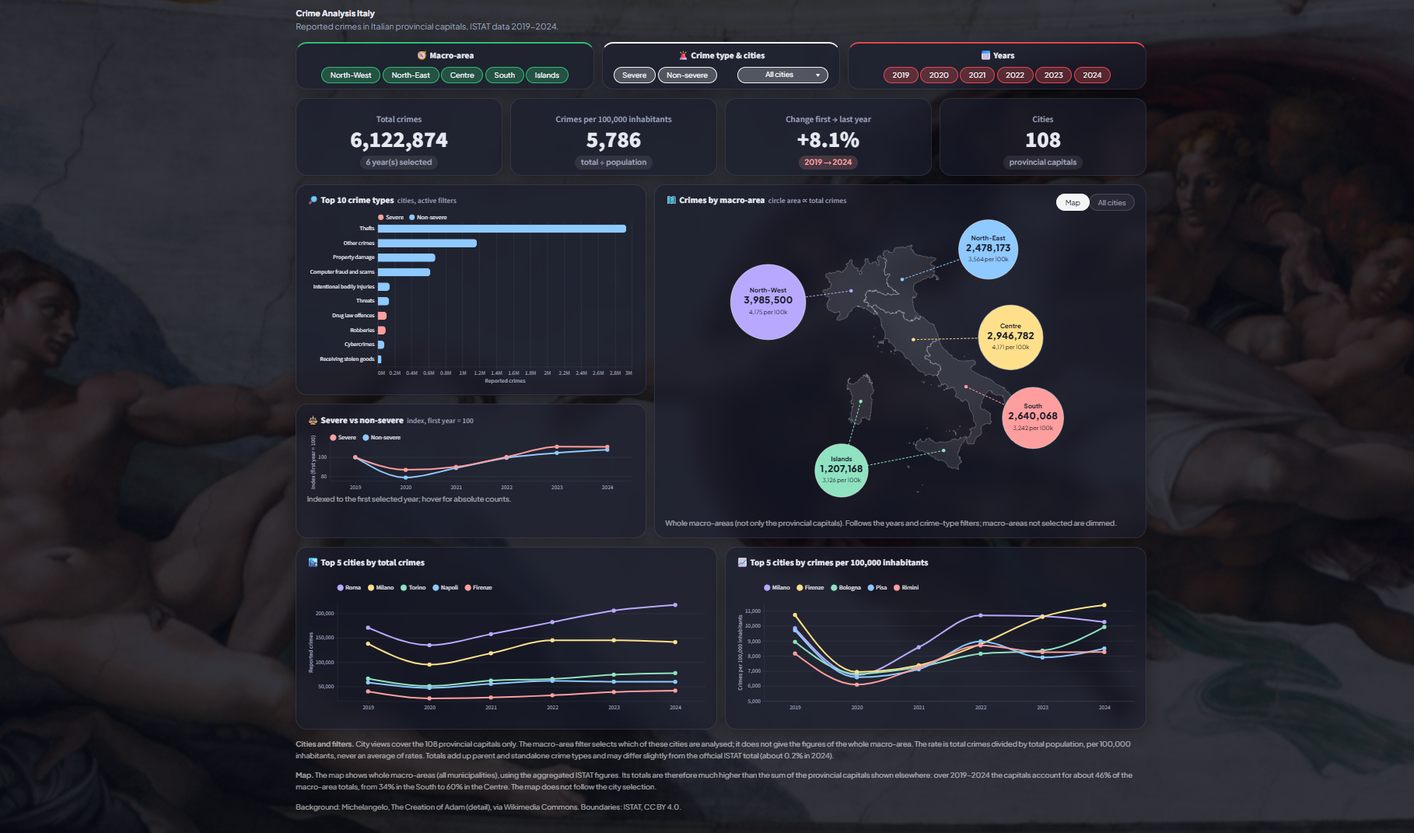
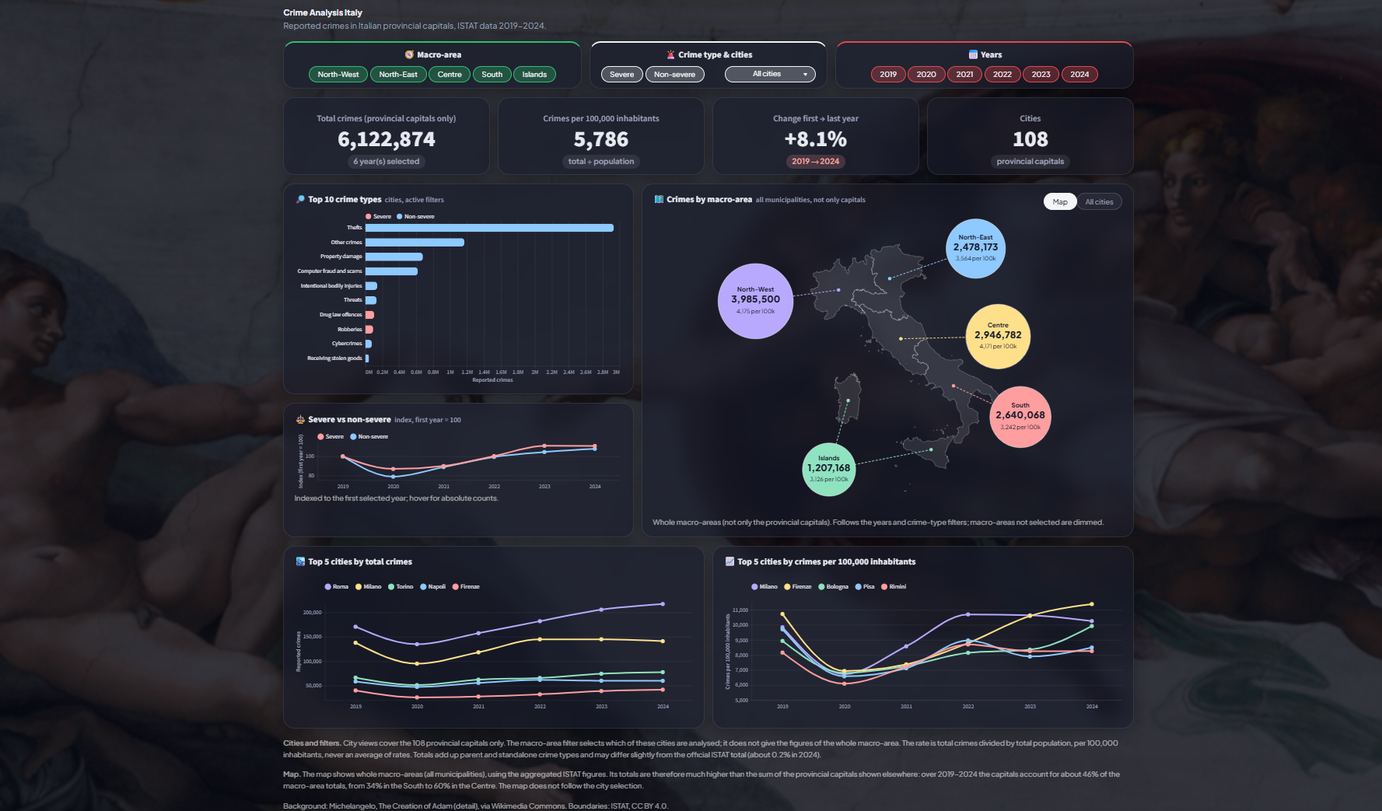
Label capitals-only figures and whole-area map, document loading script, tidy docs

diff --git a/app/streamlit_app.py b/app/streamlit_app.py
@@ -682,7 +682,11 @@ with st.container(key="row_kpi"):
     k1, k2, k3, k4 = st.columns(4)
     with k1:
         with st.container(key="kpi_total"):
-            kpi("Total crimes", f"{total_crimes:,.0f}", f"{len(year_sel)} year(s) selected")
+            kpi(
+                "Total crimes (provincial capitals only)",
+                f"{total_crimes:,.0f}",
+                f"{len(year_sel)} year(s) selected",
+            )
     with k2:
         with st.container(key="kpi_rate"):
             kpi("Crimes per 100,000 inhabitants", f"{overall_rate:,.0f}", "total ÷ population")
@@ -791,7 +795,7 @@ with st.container(key="row_main"):
                 if view == "All cities":
                     card_title("📋", "All cities", f"{len(totals)} provincial capitals, selected years")
                 else:
-                    card_title("🗺", "Crimes by macro-area", "circle area ∝ total crimes")
+                    card_title("🗺", "Crimes by macro-area", "all municipalities, not only capitals")
             if view == "All cities":
                 st.dataframe(
                     city_table,

diff --git a/IMPLEMENTATION_NOTES.md b/IMPLEMENTATION_NOTES.md
@@ -1,14 +1,5 @@
 # Implementation Notes — Technical Reference
 
-## Current Project Status
-
-- **Environment, ingestion, warehouse setup**: complete.
-- **dbt project**: complete. Staging, marts, seeds, macros and tests are built; the last full run passed all 54 tests.
-- **Streamlit app** (`app/streamlit_app.py`): complete and approved.
-- **Open**: repository cleanup and documentation, reproducible loading pipeline, GitHub, Streamlit Cloud deploy, LinkedIn post.
-
----
-
 ## Language Convention
 
 - Code, technical documentation, dbt objects (macros, seeds, models, column names, enum values) and app texts are in **English**.
@@ -23,13 +14,13 @@
 The ISTAT municipal population dataset only starts in 2019 (post-Census population bases), so the whole project is aligned to 2019 instead of mixing sources and methodologies. The period is controlled by the dbt vars `analysis_start_year` and `analysis_end_year` (defaults 2019 and 2024).
 
 ### ELT, not ETL
-Python scripts do ingestion only: CSV parsing and technical renaming, no year filter, no derived columns, no discarding of any `REF_AREA` value (including the 7 residual codes `IT108`, `IT109`, `IT110`, `ITC4A`, `ITC4B`, `ITDA`, `ITE1A`). All business logic (severity flag, territorial level, crime-code hierarchy, macro-area mapping, English crime names) lives in dbt, so it is tested and documented.
+Python scripts do ingestion only: CSV parsing, technical renaming and loading into the raw tables, with no year filter, no derived columns, no discarding of any `REF_AREA` value (including the 7 residual codes `IT108`, `IT109`, `IT110`, `ITC4A`, `ITC4B`, `ITDA`, `ITE1A`). All business logic (severity flag, territorial level, crime-code hierarchy, macro-area mapping, English crime names) lives in dbt, so it is tested and documented.
 
 ### Non-standard ISTAT CSV quoting
 The export from esploradati.istat.it uses `'` as quotechar and `"` as escape (e.g. "L'Aquila" becomes `'L"'Aquila'`). `pandas.read_csv` parses it with `quotechar="'"`, `escapechar='"'`, `doublequote=False`, `engine="python"`. To get the crime-type breakdown, "Tipo di delitto" must be set as a dimension in the TABLE view before exporting, otherwise only the `TOT` aggregate is returned.
 
 ### Territorial levels
-All levels are kept (municipality, province, region, macro-area, country). The municipality level in the crime dataset covers only the **108 provincial capitals**, not all ~7,900 Italian municipalities. In the app and the docs this level is called "cities" and the limitation is stated in a footnote.
+All levels are kept (municipality, province, region, macro-area, country). The municipality level in the crime dataset covers only the **108 provincial capitals**, not all ~7,900 Italian municipalities. In the app and the docs this level is called "cities" and the limitation is stated in labels and footnotes.
 
 ### TYPE_CRIME classification (56 codes), a dbt seed
 - Parent/child hierarchy verified on the ISTAT selection tree and numerically:
@@ -43,6 +34,7 @@ All levels are kept (municipality, province, region, macro-area, country). The m
 - `TOT` is a row-level aggregate across all crime types, not a crime type: `hierarchy_level = 'total'`, `is_severe_crime = false`, never summed with individual codes.
 - No separate mafia/terrorism flags: the dataset has only dedicated codes (MAFIAHOM/MAFIASS, TERRORHOM/ATTACK).
 - `OFFENCE` was discontinued from 2018 (absent at every level), so it falls outside the analysis window. The period has 55 codes with data; the seed keeps all 56.
+- English names (`crime_names_en` seed) were checked against the Italian ISTAT names.
 
 ---
 
@@ -62,12 +54,14 @@ All levels are kept (municipality, province, region, macro-area, country). The m
 ## Data Warehouse Setup
 
 ### Snowflake
-- Warehouse `COMPUTE_WH` (XSMALL, auto-suspend 60s), database `CRIME_ANALYSIS` with schemas `RAW_CRIME_DATA` and `ANALYTICS`, role `DBT_ROLE`, dedicated user `DBT_USER`. Never reuse a personal or `ACCOUNTADMIN` login for automated connections.
-- Raw tables were loaded manually via Snowsight: `RAW_CRIME_DATA.DELITTI_RAW` (133,826 rows) and `POPOLAZIONE_RAW` (64,369 rows). `ref_area` is VARCHAR in both, preserving leading zeros.
+- An XSMALL warehouse with a short auto-suspend, the database `CRIME_ANALYSIS` with schemas `RAW_CRIME_DATA` and `ANALYTICS`, and a dedicated role and user for dbt (`scripts/setup_snowflake.sql` creates these objects, with placeholders for the names). Never reuse a personal or administrator login for automated connections.
+- Raw tables: `RAW_CRIME_DATA.DELITTI_RAW` (133,826 rows) and `POPOLAZIONE_RAW` (64,369 rows), loaded from the cleaned CSVs by `scripts/03_load_to_snowflake.py`. `ref_area` is VARCHAR in both, preserving leading zeros.
   - `DELITTI_RAW`: `REF_AREA`, `TERRITORIO`, `TYPE_CRIME`, `TIPO_DI_DELITTO` (VARCHAR); `ANNO`, `NUMERO_DELITTI` (NUMBER).
   - `POPOLAZIONE_RAW`: `REF_AREA`, `TERRITORIO` (VARCHAR); `ANNO`, `POPOLAZIONE` (NUMBER).
-- `DBT_ROLE` has USAGE on the schema and SELECT on all current and future tables. Objects created by dbt are owned by `DBT_ROLE`; to query them from Snowsight as `ACCOUNTADMIN`, run `GRANT ROLE DBT_ROLE TO ROLE ACCOUNTADMIN`.
-- Account identifier format: if the organization-account format does not resolve (DNS on a newly created account can lag), use the legacy locator format `<locator>.<region>.<cloud>` in the dbt profile. Either works once resolvable.
+- The dbt role has USAGE on the schema and SELECT on all current and future tables. Objects created by dbt are owned by that role.
+
+### Loading script (`scripts/03_load_to_snowflake.py`)
+Ingestion only. It validates the two cleaned CSVs (existence and column names), uploads each to a temporary stage, creates the raw table with `CREATE OR REPLACE` and fills it with `COPY INTO` (`ON_ERROR = ABORT_STATEMENT`), then checks that the table row count equals the CSV row count. Because tables are replaced, it can be re-run for a data update. It does not depend on pyarrow.
 
 ### Credentials and configuration: nothing in the code
 No account, user, password or warehouse name is written in code or in versioned files. Each consumer reads them from outside the repo:
@@ -77,15 +71,13 @@ No account, user, password or warehouse name is written in code or in versioned 
 | Streamlit, local | `.streamlit/secrets.toml` (`[snowflake]` section) | No (gitignored) |
 | Streamlit Cloud | none: no Snowflake secrets are set, so the app reads `app/snapshot/` | n/a |
 | dbt | `~/.dbt/profiles.yml`, password from the `SNOWFLAKE_PASSWORD` environment variable | No |
-| Loading scripts (planned) | environment variables | No |
+| Loading script | environment variables or a local `.env` file | No (gitignored) |
 
-Migrating to another database or account means changing these values, not the code. The app has a single connection point (`run_query`, cached for 1 hour); the dbt dialect differences are isolated in `macros/cross_db_helpers.sql`. Template files with fake values (`secrets.toml.example`, `.env.example`) document what is required.
+Migrating to another database or account means changing these values, not the code. The app has a single connection point (`run_query`, cached for 1 hour); the dbt dialect differences are isolated in `macros/cross_db_helpers.sql`. Template files with fake values (`secrets.toml.example`, `.env.example`) document what is required. The raw schema name is configurable through the optional `RAW_SCHEMA` variable, read by both dbt and the loading script.
 
 ### Operational notes
 - All dbt commands run from inside `crime_analysis/`, not from the project root.
-- `SNOWFLAKE_PASSWORD` must be set in every new terminal session (not persisted). Set it without leaving the value in history: `$env:SNOWFLAKE_PASSWORD = [System.Net.NetworkCredential]::new('', (Read-Host -AsSecureString 'Snowflake password')).Password`.
-- On Windows the Snowflake connector prints an Apache Arrow DLL warning (application control). It is harmless.
-- The system Python has pandas/pyarrow blocked by Application Control, so the app is launched with the project virtual environment.
+- `SNOWFLAKE_PASSWORD` is read from the environment and is never stored in the repository.
 
 ### Portability
 Dialect differences (regular expressions) are isolated in `macros/cross_db_helpers.sql`, which dispatches on `target.type`. The SQL models stay dialect-agnostic, so the project can move to another warehouse by changing the dbt adapter and profile.
@@ -150,15 +142,21 @@ Dialect differences (regular expressions) are isolated in `macros/cross_db_helpe
 
 - Dark glass theme, background fresco under a dark veil, Plus Jakarta Sans font, pastel palette, max width 1,800 px. All CSS is in one block (fragile across Streamlit versions).
 - **Filters**: macro-area buttons, severity and city selector (popover with search), years. Empty city list means all cities. Selecting cities locks the macro-area buttons to those cities' macro-areas; clearing the list restores the previous selection.
-- **Totals row**: total crimes, crimes per 100,000 inhabitants, change first to last year, number of cities.
-- **Central row**: Top 10 crime types and severe vs non-severe index (first year = 100); a map of the five macro-areas (circle area proportional to total crimes) or a sortable table of the 108 cities with CSV export.
+- **Totals row** (provincial capitals only, labelled as such): total crimes, crimes per 100,000 inhabitants, change first to last year, number of cities.
+- **Central row**: Top 10 crime types and severe vs non-severe index (first year = 100); a map of the five macro-areas (circle area proportional to total crimes) or a sortable table of the 108 cities with CSV export. The map title notes that it covers all municipalities, not only capitals.
 - **Bottom row**: Top 5 cities by total crimes and by crimes per 100,000.
-- The map uses pre-aggregated macro-area rows, follows years and severity but not the city selection.
+- The map uses pre-aggregated macro-area rows, follows years and severity but not the city selection. Its totals cover whole macro-areas, so they are higher than the sum of the capitals; footnotes explain this.
 - Data comes from three queries (`CITY_SQL`, `MACRO_SQL`, `CRIME_SQL`, in `app/queries.py`) through `run_query(name)`, cached 1 hour. With Snowflake credentials in `st.secrets["snowflake"]` the queries run live; without them (public deployment) the result is read from `app/snapshot/<name>.csv`. The environment variable `CRIME_APP_DATA=snapshot` forces the files locally.
 - `scripts/04_export_app_snapshot.py` runs the same three queries on Snowflake and writes `app/snapshot/city.csv` (1,296 rows), `macro.csv` (60) and `crime.csv` (21,384 = 108 cities x 6 years x 33 crime codes). It reads the credentials from `.streamlit/secrets.toml` and writes all files only after every query succeeded. Re-run it and commit the files after every data update.
 - Assets: `app/assets/background.png` (name must stay `background.<ext>`) and `app/assets/macro_areas.geojson` (macro-areas dissolved from region polygons, ISTAT CC BY 4.0). `.streamlit/config.toml` is committed; `secrets.toml` never.
-- Launch from the project root: `.\.venv\Scripts\python.exe -m streamlit run app/streamlit_app.py`.
+- Launch from the project root: `streamlit run app/streamlit_app.py`.
 - Charts use Altair (bundled with Streamlit).
+
+---
+
+## Deployment
+
+The public repository is connected to Streamlit Cloud (main file `app/streamlit_app.py`). No Snowflake secrets are configured there, so the app reads the CSV files in `app/snapshot/`. Every push to `main` redeploys the app. The public app is at https://crime-analysis-italy.streamlit.app.
 
 ---
 
@@ -177,21 +175,10 @@ crime-analysis-italy/
 
 Data files (`data/`, versioned): `delitti_raw.csv`, `popolazione_raw.csv` (ISTAT downloads) and `delitti_cleaned.csv`, `popolazione_cleaned.csv` (script outputs; these are the exact data loaded into the Snowflake raw tables, 133,826 and 64,369 rows).
 
----
-
-## Next Steps (in order)
-
-1. Finish repository cleanup and documentation (README with screenshots, architecture, data rules, attributions).
-2. Reproducible pipeline: `scripts/03_load_to_snowflake.py` (loads the two cleaned CSVs), parametric `_sources.yml`, `scripts/setup_snowflake.sql` with placeholders, `scripts/requirements.txt`. Scripts created; the end-to-end run on a clean Snowflake account is still to be confirmed before the docs describe it as done.
-3. Public app data (done): `app/snapshot/` holds the results of the three queries, exported with `scripts/04_export_app_snapshot.py`; production reads them, development keeps querying Snowflake.
-4. GitHub: public repository, first commit and push.
-5. Streamlit Cloud deploy (do not add Snowflake secrets: the app then reads `app/snapshot/`), then the LinkedIn post.
-6. Optional: `not_null` tests on sources; investigate the 441 missing municipality-years; small graphic fixes.
-
 ## Dependencies
 - Ingestion scripts: pandas, snowflake-connector-python.
 - dbt: dbt-core 1.12.5, dbt-snowflake 1.12.1.
-- App: streamlit 1.65.0, snowflake-connector-python, pandas (`pyarrow<25` only locally).
+- App: streamlit 1.65.0, snowflake-connector-python, pandas.
 
 ## Attributions
 - Crime and population data: ISTAT, CC BY 4.0.

diff --git a/README.md b/README.md
@@ -7,27 +7,27 @@ An interactive dashboard on Italian crime statistics, built from ISTAT open data
 ![Dashboard overview](docs/images/dashboard-overview.png)
 
 ## What you can explore
-- Total crimes, crimes per 100,000 inhabitants and the change from the first to the last year, for any combination of macro-area, city, severity and years.
+- For the 108 provincial capitals: total crimes, crimes per 100,000 inhabitants and the change from the first to the last year, for any combination of macro-area, city, severity and years.
 - Top 10 crime types and a severe vs non-severe trend (index, first year = 100).
-- A map of the five macro-areas, or a sortable table of the 108 provincial capitals with CSV export.
+- A map of the five macro-areas (whole macro-areas, all municipalities), or a sortable table of the 108 provincial capitals with CSV export.
 - Top 5 cities by total crimes and by crimes per 100,000 inhabitants.
 
 ## Architecture
 ```
 ISTAT CSV → Python ingestion → Snowflake raw tables → dbt (seeds, staging, marts) → Streamlit
 ```
-- **ELT, not ETL**: Python only parses the CSVs. Severity flags, crime-code hierarchy, territorial levels, macro-area mapping and English crime names are all defined in dbt, where they are tested and documented.
-- **Raw layer**: the ISTAT downloads, the scripts that parse them and the cleaned CSVs loaded into the Snowflake raw tables are all in the repository (`data/`, `scripts/`).
+- **ELT, not ETL**: Python only parses and loads the CSVs. Severity flags, crime-code hierarchy, territorial levels, macro-area mapping and English crime names are all defined in dbt, where they are tested and documented.
+- **Raw layer**: the ISTAT downloads, the scripts that parse them, the cleaned CSVs and the script that loads them into the Snowflake raw tables are all in the repository (`data/`, `scripts/`).
 - **Models**: `stg_crimes`, `stg_population` → `fct_crimes`, `dim_areas`, `dim_crimes`. Seeds: crime classification (56 codes), city-to-macro-area mapping (108 cities), English crime names (56).
 - **54 dbt tests**: keys, not-null, relationships, unique grain, and tolerance-based reconciliation between territorial levels.
 - **Two ways to read the data**: in development the app queries Snowflake live. The public deployment has no warehouse credentials and reads `app/snapshot/`, CSV files with the results of the same three queries (`app/queries.py`), exported with `scripts/04_export_app_snapshot.py`.
-- **No credentials in code**: the app reads Streamlit secrets, dbt reads its local profile and an environment variable. Changing database means changing configuration values only.
+- **No credentials in code**: the app reads Streamlit secrets, dbt reads its local profile and an environment variable, the loading script reads environment variables. Changing database means changing configuration values only.
 
 ## Data decisions
 - **Parents and children**: ISTAT crime codes are hierarchical (for example theft contains vehicle theft). Only parent and standalone codes are summed, so nothing is counted twice. The result is about 0.2% below ISTAT's own total.
 - **Rates are never averaged**: crimes and population are summed first, then the rate is recomputed.
 - **Cities are the 108 provincial capitals**: the ISTAT crime dataset has no data for the other ~7,800 municipalities. They account for about 46% of national crimes, and the app says so.
-- **Cities vs macro-areas**: the map shows full macro-area figures, while the city views cover capitals only. The difference is stated in the app notes.
+- **Cities vs macro-areas**: the headline figures, rankings and city table cover the capitals only, while the map shows whole macro-areas (all municipalities). The difference is stated in the app.
 - **Reconciliation**: macro-areas match Italy within 0.05%; regions match macro-areas within 0.1%. Province totals do not add up to regional totals, probably because ISTAT computes them independently; this is documented, not hidden.
 - **Crime names** are translated to English in dbt (a seed); the original Italian names are kept.
 
@@ -36,13 +36,14 @@ More detail in [`PROJECT_DOCUMENTATION.md`](PROJECT_DOCUMENTATION.md) and [`IMPL
 ## Run it yourself
 1. Create a Python 3.13 virtual environment and install `scripts/requirements.txt` and `app/requirements.txt`.
 2. The ISTAT downloads and the cleaned CSVs are already in `data/` (see `data/README.md`). To regenerate the cleaned files, run `scripts/01_clean_delitti.py` and `scripts/02_clean_popolazione.py`.
-3. Load the two cleaned CSVs into Snowflake raw tables (an automated loading script is planned).
-4. Configure your dbt profile (password from the `SNOWFLAKE_PASSWORD` environment variable) and `.streamlit/secrets.toml` with your own Snowflake details.
-5. From `crime_analysis/`: `dbt seed && dbt run && dbt test`.
-6. From the repository root: `streamlit run app/streamlit_app.py`. With Snowflake credentials in `.streamlit/secrets.toml` it queries Snowflake; without them it reads `app/snapshot/`. To refresh the snapshot after a data update: `python scripts/04_export_app_snapshot.py`.
+3. Prepare the Snowflake objects (warehouse, database, schemas, role and user) with `scripts/setup_snowflake.sql`, replacing the placeholders with your own values.
+4. Copy `.env.example` to `.env`, fill in your Snowflake details, and run `python scripts/03_load_to_snowflake.py`. It uploads the two cleaned CSVs to a temporary stage, loads them into the raw tables with `COPY INTO` and checks that the row counts match the files. It can be re-run at any time.
+5. Configure your dbt profile (password from the `SNOWFLAKE_PASSWORD` environment variable) and `.streamlit/secrets.toml` with your own Snowflake details.
+6. From `crime_analysis/`: `dbt seed && dbt run && dbt test`.
+7. From the repository root: `streamlit run app/streamlit_app.py`. With Snowflake credentials in `.streamlit/secrets.toml` it queries Snowflake; without them it reads `app/snapshot/`. To refresh the snapshot after a data update: `python scripts/04_export_app_snapshot.py`.
 
 ## Using a different database
-No connection detail is written in the code. To point the project at another Snowflake account or database, change the values in `.streamlit/secrets.toml` (app) and in your dbt profile (dbt), set `SNOWFLAKE_PASSWORD`, reload the raw tables, run `dbt seed && dbt run && dbt test` and re-export the app snapshot with `scripts/04_export_app_snapshot.py`. The database and raw schema read by dbt come from the profile and the optional `RAW_SCHEMA` variable. Warehouse-specific SQL lives in dbt macros, so a different warehouse also needs only another dbt adapter and a new connection function in the app.
+No connection detail is written in the code. To point the project at another Snowflake account or database, change the values in `.env` (loading script), `.streamlit/secrets.toml` (app) and your dbt profile (dbt), set `SNOWFLAKE_PASSWORD`, reload the raw tables with `scripts/03_load_to_snowflake.py`, run `dbt seed && dbt run && dbt test` and re-export the app snapshot with `scripts/04_export_app_snapshot.py`. The database and raw schema read by dbt and by the loading script come from the profile or `.env` and the optional `RAW_SCHEMA` variable. Warehouse-specific SQL lives in dbt macros, so a different warehouse also needs only another dbt adapter, a new connection function in the app and an adapted loading script.
 
 ## Data sources and credits
 - Crime and population data: [ISTAT](https://www.istat.it), licensed under [CC BY 4.0](https://creativecommons.org/licenses/by/4.0/). The raw files in `data/` are ISTAT downloads. The cleaned files in `data/` and the files in `app/snapshot/` are derived from them: the cleaning, classification and aggregation are this project's own work, not official ISTAT figures. ISTAT is not affiliated with this project and does not endorse it.

diff --git a/PROJECT_DOCUMENTATION.md b/PROJECT_DOCUMENTATION.md
@@ -3,7 +3,7 @@
 ## Overview
 An interactive public dashboard on Italian crime statistics (2019-2024), built from ISTAT data with Snowflake, dbt and Streamlit. It demonstrates a production-style ELT pipeline, from raw ISTAT CSV files to a public web app, using free-tier tools.
 
-**Live dashboard**: [link to be added after deployment to Streamlit Cloud]
+**Live dashboard**: https://crime-analysis-italy.streamlit.app
 
 ## Project Goals
 - Compare crime across Italian territories over six years, normalized per 100,000 inhabitants so areas of different size can be compared fairly.
@@ -14,14 +14,14 @@ An interactive public dashboard on Italian crime statistics (2019-2024), built f
 - **Data warehouse**: Snowflake
 - **Transformations**: dbt Core 1.12.5 with dbt-snowflake 1.12.1
 - **App**: Streamlit 1.65.0 with Altair charts, hosted on Streamlit Cloud
-- **Ingestion**: Python 3.13 and pandas (parsing only, no business logic)
-- **Development**: PyCharm, GitHub (public repository)
+- **Ingestion**: Python 3.13 and pandas (parsing and loading only, no business logic)
+- **Version control**: GitHub (public repository)
 - **Sources**: ISTAT crime denunciations (2019-2024) and ISTAT municipal population, used to compute rates
 
 ## Architecture
 
 ### Data flow (ELT)
-ISTAT CSV files → Python ingestion (parsing only) → Snowflake raw tables → dbt seeds and models (staging, marts) → Streamlit queries → public dashboard.
+ISTAT CSV files → Python ingestion (parsing and loading only) → Snowflake raw tables → dbt seeds and models (staging, marts) → Streamlit queries → public dashboard.
 
 All business logic lives in dbt, not in Python: severity flags, crime-code hierarchy, territorial level derived from the ISTAT area code, macro-area mapping and English crime names.
 
@@ -35,7 +35,7 @@ All business logic lives in dbt, not in Python: severity flags, crime-code hiera
 Warehouse-specific SQL (regular expressions) is isolated in dbt macros, so the models stay dialect-agnostic.
 
 ### Configuration and credentials
-No account, user or password appears in the code. The app reads them from Streamlit secrets and dbt from its local profile and an environment variable; none of these files is versioned. Moving to another database means changing configuration values, not code.
+No account, user or password appears in the code. The app reads them from Streamlit secrets, dbt from its local profile and an environment variable, and the loading script from environment variables or a local `.env` file; none of these files is versioned. Moving to another database means changing configuration values, not code.
 
 ## Dashboard Features
 
@@ -45,14 +45,16 @@ No account, user or password appears in the code. The app reads them from Stream
 - **Years**: 2019-2024.
 
 ### Views
-- Headline figures: total crimes, crimes per 100,000 inhabitants, change from first to last year, number of cities.
+- Headline figures, for the 108 provincial capitals only: total crimes, crimes per 100,000 inhabitants, change from first to last year, number of cities.
 - Top 10 crime types.
 - Severe vs non-severe crimes as an index (first year = 100).
-- Map of the five macro-areas (circle area proportional to total crimes), or a sortable table of the 108 cities with CSV export.
+- Map of the five macro-areas (whole macro-areas, all municipalities; circle area proportional to total crimes), or a sortable table of the 108 cities with CSV export.
 - Top 5 cities by total crimes and by crimes per 100,000 inhabitants.
 
 ### Territorial coverage
-The city level covers only the **108 provincial capitals**, not all ~7,900 Italian municipalities: this is a limit of the ISTAT crime dataset. The app states it in a footnote. Capitals represent about 46% of national crimes over 2019-2024.
+The city level covers only the **108 provincial capitals**, not all ~7,900 Italian municipalities: this is a limit of the ISTAT crime dataset. The app states it in its labels and footnotes. Capitals represent about 46% of national crimes over 2019-2024.
+
+The map is the exception: it uses the macro-area rows aggregated by ISTAT, so it covers the whole territory of each macro-area. Its totals are therefore much higher than the sum of the capitals shown elsewhere, and the app explains this in a footnote.
 
 ## Data Quality and Governance
 
@@ -67,10 +69,8 @@ All 242 area codes were checked against the real data, confirming five levels (c
 ### Tests
 54 dbt tests pass: unique keys, not-null constraints, relationships, seed checks, unique grain on staging and fact models, and tolerance-based reconciliation tests between territorial levels.
 
-## Annual Maintenance
-**When**: January, when ISTAT publishes the previous year.
-**Process**: download the new crime and population CSVs from esploradati.istat.it (with "Tipo di delitto" set as a dimension), run the ingestion scripts, load the raw tables, run `dbt seed && dbt run && dbt test`, export the app snapshot (`scripts/04_export_app_snapshot.py`) and commit it, share the update.
-**Effort**: about one hour per year.
+## Data Updates
+To add a new year: download the new crime and population CSVs from esploradati.istat.it (with "Tipo di delitto" set as a dimension), run the ingestion scripts, load the raw tables with `scripts/03_load_to_snowflake.py`, run `dbt seed && dbt run && dbt test`, export the app snapshot (`scripts/04_export_app_snapshot.py`) and commit it.
 
 ## Deployment
 - **Development**: local virtual environment; dbt and the app connect to Snowflake.
@@ -92,13 +92,10 @@ crime-analysis-italy/
 1. Clone the repository and create a Python 3.13 virtual environment.
 2. Install dependencies from `scripts/requirements.txt` and `app/requirements.txt`.
 3. The ISTAT downloads and the cleaned CSVs are already in `data/`; to regenerate the cleaned files, run the two ingestion scripts.
-4. Load the cleaned CSVs into Snowflake raw tables (an automated loading script is planned).
+4. Prepare the Snowflake objects with `scripts/setup_snowflake.sql` (replace the placeholders with your own values), copy `.env.example` to `.env`, fill it in and run `python scripts/03_load_to_snowflake.py`. It loads the two cleaned CSVs into the raw tables through a temporary stage and checks the row counts.
 5. Configure the dbt profile and the Streamlit secrets from the provided templates.
 6. From `crime_analysis/`: `dbt seed && dbt run && dbt test`.
 7. From the repository root: `streamlit run app/streamlit_app.py` (with Snowflake credentials it queries Snowflake; without them it reads `app/snapshot/`).
-
-## Possible Enhancements
-Province-level map, trend forecasting, additional sources (arrests, convictions), Italian-language interface.
 
 ## Attributions
 - Crime and population data: ISTAT, licensed CC BY 4.0.

diff --git a/CLAUDE.md b/CLAUDE.md
@@ -1,7 +1,7 @@
 # Crime Analysis Dashboard
 
 ## Project Overview
-Dashboard on Italian crime data (ISTAT, 2019-2024), built with Snowflake, dbt and Streamlit. Portfolio project demonstrating a modern ELT pipeline with free-tier tools. Public app for LinkedIn and recruiter visibility.
+Dashboard on Italian crime data (ISTAT, 2019-2024), built with Snowflake, dbt and Streamlit. Portfolio project demonstrating a modern ELT pipeline with free-tier tools, from the ISTAT CSV files to a public app on Streamlit Cloud.
 
 ## Tech Stack
 - Data warehouse: Snowflake
@@ -10,19 +10,20 @@ Dashboard on Italian crime data (ISTAT, 2019-2024), built with Snowflake, dbt an
 - Version control: GitHub (public repository)
 
 ## Architecture: ELT, not ETL
-Python scripts do **ingestion only** (CSV parsing, technical column renaming, no discarding of any `REF_AREA` value). All business logic lives in dbt seeds, models and macros: severity flags, crime-code hierarchy, territorial level, macro-area mapping, English crime names. This is a deliberate choice to demonstrate dbt competence.
+Python scripts do **ingestion only** (CSV parsing, technical column renaming, loading into the raw tables, no discarding of any `REF_AREA` value). All business logic lives in dbt seeds, models and macros: severity flags, crime-code hierarchy, territorial level, macro-area mapping, English crime names. This is a deliberate choice to demonstrate dbt competence.
 
 ## Commands
 - Ingestion cleaning: `python scripts/01_clean_delitti.py && python scripts/02_clean_popolazione.py`
+- Load the raw tables: `python scripts/03_load_to_snowflake.py` (reads the connection from environment variables or a local `.env`, see `.env.example`).
 - dbt (run from `crime_analysis/`, never from the repo root): `dbt debug`, `dbt seed`, `dbt run`, `dbt test`
-- App (from the repo root): `.\.venv\Scripts\python.exe -m streamlit run app/streamlit_app.py`
-- dbt reads the password from the `SNOWFLAKE_PASSWORD` environment variable, set in each new terminal session. The app does not need it.
+- App (from the repo root): `streamlit run app/streamlit_app.py`
+- dbt reads the password from the `SNOWFLAKE_PASSWORD` environment variable. The app does not need it.
 - Refresh the app's data snapshot after a data update: `python scripts/04_export_app_snapshot.py` (reads the credentials from `.streamlit/secrets.toml`), then commit `app/snapshot/`.
 
 ## Credentials and configuration
 - Never write account, user, password or warehouse names in code or in versioned files. Use placeholders such as `<SNOWFLAKE_ACCOUNT>` in documentation.
-- App: `.streamlit/secrets.toml` locally; on Streamlit Cloud no Snowflake secrets are set, so the app reads `app/snapshot/`. dbt: `~/.dbt/profiles.yml` plus the environment variable. These files are never committed.
-- Never paste a password in chat. Check `git status` before every commit.
+- App: `.streamlit/secrets.toml` locally; on Streamlit Cloud no Snowflake secrets are set, so the app reads `app/snapshot/`. dbt: `~/.dbt/profiles.yml` plus the environment variable. Loading script: environment variables or `.env`. These files are never committed.
+- Check `git status` before every commit.
 
 ## Code Style
 - Python: snake_case, 4-space indent, type hints, docstrings.
@@ -33,7 +34,8 @@ Python scripts do **ingestion only** (CSV parsing, technical column renaming, no
 ## Data Rules (always apply)
 - Filter `is_residual_area = FALSE` and `hierarchy_level NOT IN ('child', 'total')`: use **parent + standalone** crimes only. Exclude `ITDA` wherever it would double count.
 - **Rate rule**: never average `crime_rate_per_100k`. Sum `crime_count` and `population` first, then recompute. In `fct_crimes` population repeats on every crime row of an area-year: use `MAX(population)` per area-year after summing crimes; for multi-year rankings sum crimes and population over all years.
-- "Cities" means only the **108 provincial capitals**, not all ~7,900 municipalities. Say so in the docs and in a footnote wherever the app shows this level.
+- "Cities" means only the **108 provincial capitals**, not all ~7,900 municipalities. Say so in the docs and in a footnote wherever the app shows this level. The headline figures are labelled as capitals only.
+- The map shows whole macro-areas (all municipalities), from the aggregated ISTAT rows. Its title and footnote say so, because its totals are higher than the sum of the capitals.
 - 22 crime codes have `is_severe_crime = TRUE`.
 - No equality test between municipality sums and higher levels, or province sums and regions (they diverge for structural reasons). Tested reconciliations: macro-areas vs Italy within 0.05%, regions vs macro-areas within 0.1%.
 - Seeds need `+column_types: string` in `dbt_project.yml` to keep leading zeros of municipality codes.
@@ -41,7 +43,7 @@ Python scripts do **ingestion only** (CSV parsing, technical column renaming, no
 ## Key Constraints
 - Analysis period 2019-2024 (municipal population data starts in 2019).
 - Budget: free tools and tiers only.
-- Manual annual update (January), no scheduler.
+- Manual data updates, no scheduler.
 - Data in production: the public app has no Snowflake credentials and reads the CSV files in `app/snapshot/`, which hold the results of the three queries in `app/queries.py`. With credentials (local development) the same app queries Snowflake live. Re-run `scripts/04_export_app_snapshot.py` and commit after every data update.
 
 ## References
